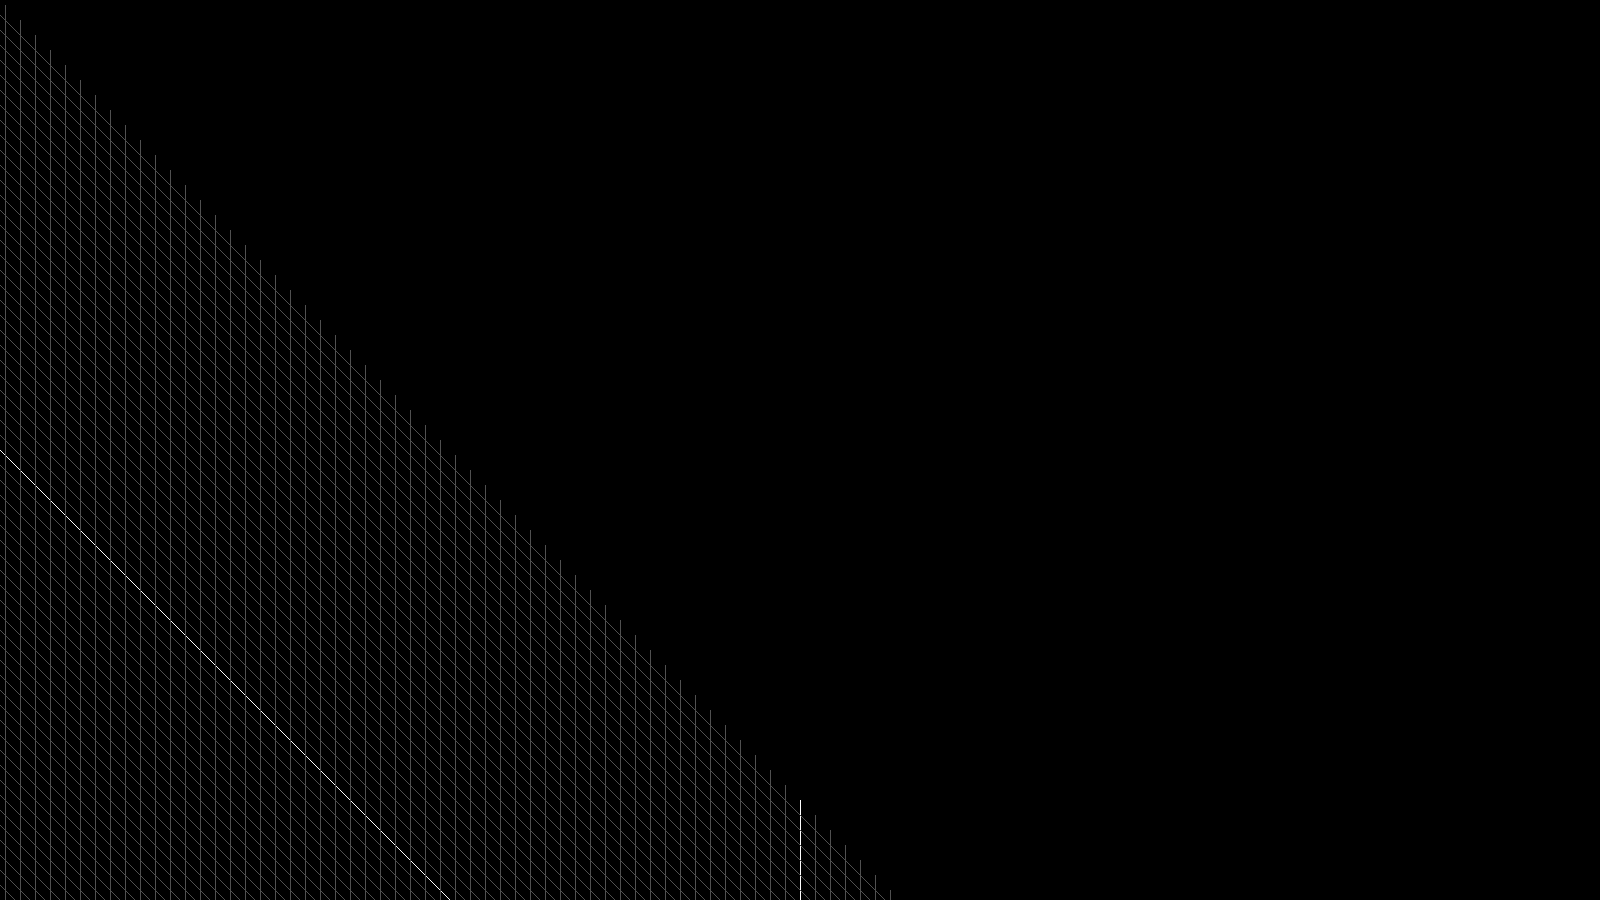
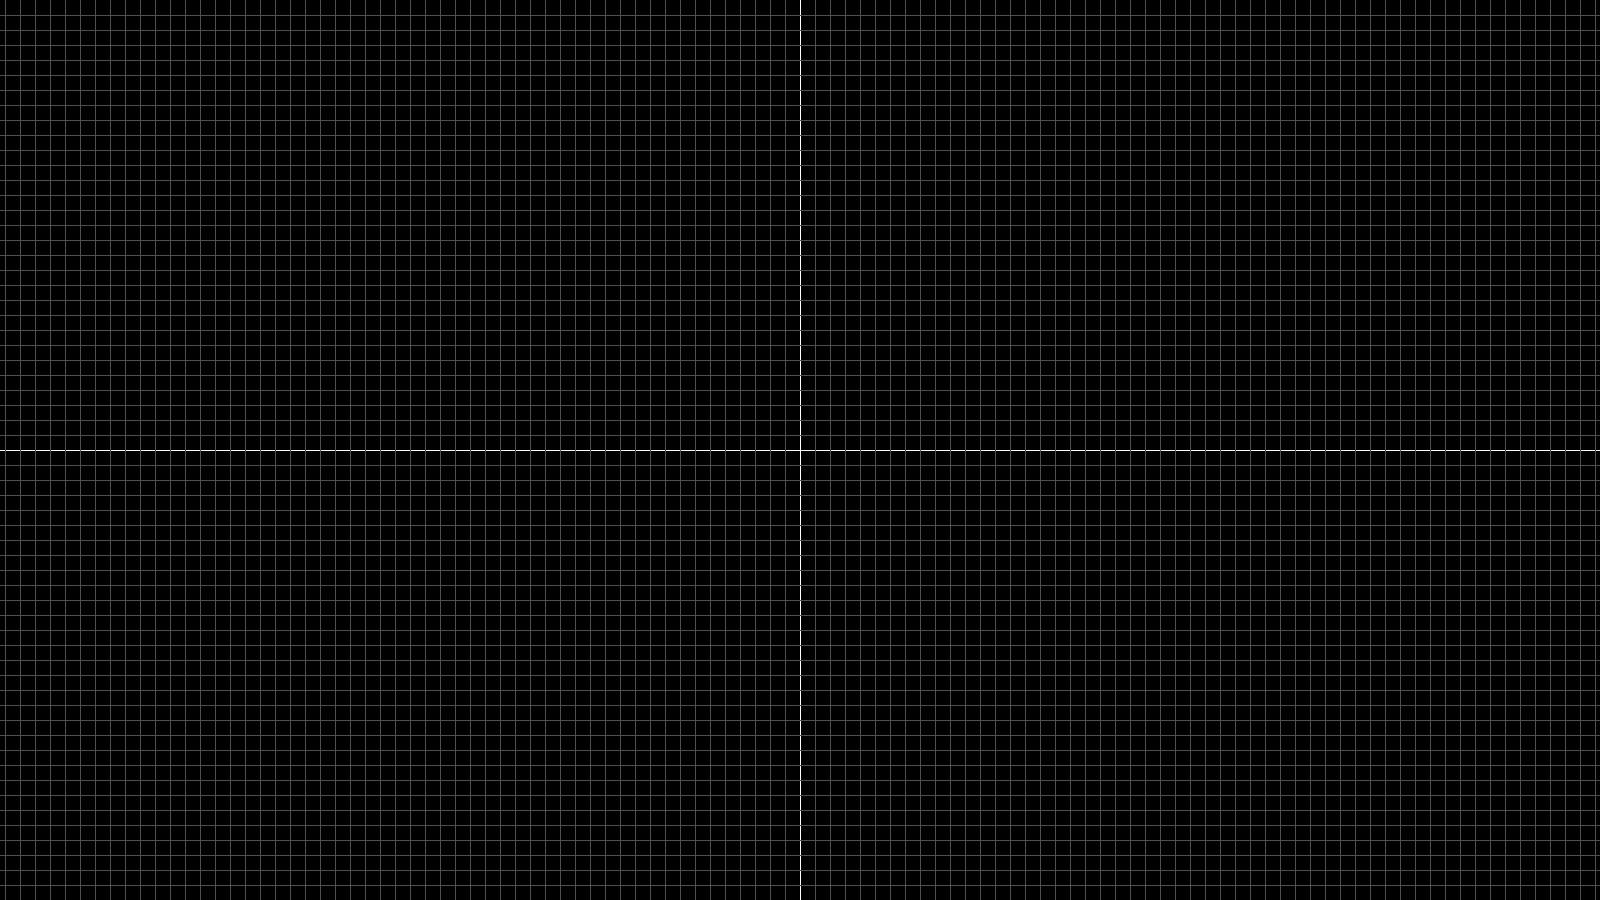
ummm, backup b4 remaking to add vector2,vector3(instead of just vector) and matricies

Changed region(s): [[0.0, 0.0, 1.0, 0.9956]]

diff --git a/vector_visualizer.cpp b/vector_visualizer.cpp
@@ -3,7 +3,30 @@
 #include "vector.hpp"
 #include <cmath>
 #include <raylib.h>
+// umm, iirc i use pi somewhere, so i just assign it from globa.pi to pi so its
+// less code
 const double pi = global.pi;
+
+void draw_line_vec(vector start, vector end, Color clr) {
+  // this fuctiion draws a line from one point to another onto current renderer,
+  // (0, 0) = middle of screen, y+ = up, x+ = right
+  vector origin = global.origin;
+  // transforming by {1, 0}, {0, -1} just does vec.y=-vec.y
+  // add origin since raylib uwu
+  vector start_loc = start.transform_return({1, 0}, {0, -1}) + origin;
+  vector end_loc = end.transform_return({1, 0}, {0, -1}) + origin;
+  DrawLine(start_loc.x, start_loc.y, end_loc.x, end_loc.y, clr);
+}
+void img_draw_line_vec(Image *dst, vector start, vector end, Color clr) {
+  // this fuctiion draws a line from one point to another onto an img
+  // (0, 0) = middle of screen, y+ = up, x+ = right
+  vector origin = global.origin;
+  // transforming by {1, 0}, {0, -1} just does vec.y=-vec.y
+  // add origin since raylib uwu
+  vector start_loc = start.transform_return({1, 0}, {0, -1}) + origin;
+  vector end_loc = end.transform_return({1, 0}, {0, -1}) + origin;
+  ImageDrawLine(dst, start_loc.x, start_loc.y, end_loc.x, end_loc.y, clr);
+}
 void drawVector(const vector origin, vector vec, const Color clr) {
   vector vec_local = vec;
   // multiply by -1 since y+ is down
@@ -62,6 +85,82 @@ void saveImage(Image img, std::string name) {
   ExportImage(img, name.c_str());
   UnloadImage(img);
 }
+void drawGrid(int spacing, vector ihat_prime, vector jhat_prime) {
+
+  vector win = vecfToVec(global.win) / 2;
+  vector origin = global.origin;
+  double done = 0;
+  vector toDrawStart;
+  vector toDrawEnd;
+
+  // transform each corner (non transformed) by inverse matrix of ihat_prime and
+  // det(A) = ad-bc
+  double determinant =
+      ihat_prime.x * jhat_prime.y - ihat_prime.y * jhat_prime.x;
+  // 1/(ad-bc) *
+  // vector inverse_ihat_prime = 1 / ()
+
+  vector corner_grid_top_left = vector(-win.x / 2, -win.y / 2);
+  vector corner_grid_top_right = vector(win.x / 2, -win.y / 2);
+
+  vector corner_grid_bottom_left = vector(-win.x / 2, win.y / 2);
+
+  vector corner_grid_bottom_right = vector(win.x / 2, win.y / 2);
+
+  vector corner_grid_top_left_trans =
+      corner_grid_top_left.transform_return(ihat_prime, jhat_prime);
+  vector corner_grid_top_right_trans =
+      corner_grid_top_right.transform_return(ihat_prime, jhat_prime);
+
+  vector corner_grid_bottom_left_trans =
+      corner_grid_bottom_left.transform_return(ihat_prime, jhat_prime);
+
+  vector corner_grid_bottom_right_trans =
+      corner_grid_bottom_right.transform_return(ihat_prime, jhat_prime);
+  // vector <= vector check if all values are <= (x,y and z)
+
+  draw_line_vec(corner_grid_top_left_trans, corner_grid_top_right_trans, WHITE);
+  draw_line_vec(corner_grid_top_right_trans, corner_grid_bottom_right_trans,
+                WHITE);
+  draw_line_vec(corner_grid_bottom_right_trans, corner_grid_bottom_left_trans,
+                WHITE);
+  draw_line_vec(corner_grid_bottom_left_trans, corner_grid_top_left_trans,
+                WHITE);
+
+  draw_line_vec(corner_grid_top_right_trans, corner_grid_bottom_left_trans,
+                RED);
+  draw_line_vec(corner_grid_top_left_trans, corner_grid_bottom_right_trans,
+                RED);
+  for (int i = 0; i < origin.x / spacing; i++) {
+    done = i / (origin.x / spacing);
+
+    toDrawStart =
+        corner_grid_bottom_left.transform_return(ihat_prime * done, jhat_prime);
+    toDrawEnd =
+        corner_grid_top_left.transform_return(ihat_prime * done, jhat_prime);
+
+    draw_line_vec(toDrawStart, toDrawEnd, GREEN);
+    toDrawStart = corner_grid_bottom_right.transform_return(ihat_prime * done,
+                                                            jhat_prime);
+    toDrawEnd =
+        corner_grid_top_right.transform_return(ihat_prime * done, jhat_prime);
+    draw_line_vec(toDrawStart, toDrawEnd, GREEN);
+  }
+  for (int i = 0; i < origin.y / spacing; i++) {
+    done = i / (origin.y / spacing);
+    toDrawStart =
+        corner_grid_top_left.transform_return(ihat_prime, jhat_prime * done);
+    toDrawEnd =
+        corner_grid_top_right.transform_return(ihat_prime, jhat_prime * done);
+
+    draw_line_vec(toDrawStart, toDrawEnd, GREEN);
+    toDrawStart =
+        corner_grid_bottom_left.transform_return(ihat_prime, jhat_prime * done);
+    toDrawEnd = corner_grid_bottom_right.transform_return(ihat_prime,
+                                                          jhat_prime * done);
+    draw_line_vec(toDrawStart, toDrawEnd, GREEN);
+  }
+}
 Image genGridImage(int spacing, vector ihat_prime, vector jhat_prime) {
 
   vector win = vecfToVec(global.win);
@@ -69,42 +168,74 @@ Image genGridImage(int spacing, vector ihat_prime, vector jhat_prime) {
   vector toDrawStart;
   vector toDrawEnd;
   Image img = GenImageColor(global.win.x, global.win.y, BLACK);
+  vector corner_top_left =
+      vector(0, 0).transform_return(ihat_prime, jhat_prime);
+  vector corner_top_right =
+      vector(win.x, 0).transform_return(ihat_prime, jhat_prime);
 
+  vector corner_bottom_left =
+      vector(0, win.y).transform_return(ihat_prime, jhat_prime);
+
+  vector corner_bottom_right =
+      vector(win.x, win.y).transform_return(ihat_prime, jhat_prime);
+  /*
+    img_draw_line_vec(&img, corner_top_left, corner_top_right, WHITE);
+    img_draw_line_vec(&img, corner_top_right, corner_bottom_right, WHITE);
+    img_draw_line_vec(&img, corner_bottom_right, corner_bottom_left, WHITE);
+    img_draw_line_vec(&img, corner_bottom_left, corner_top_left, WHITE);
+
+    img_draw_line_vec(&img, corner_top_right, corner_bottom_left, RED);
+    img_draw_line_vec(&img, corner_top_left, corner_bottom_right, RED);
+    return img;
+    */
   toDrawStart =
-      vector(origin.x, win.y).transform_return(ihat_prime, jhat_prime);
-  toDrawEnd = vector(origin.x, 0).transform_return(ihat_prime, jhat_prime);
+      vector(0, win.y - origin.y).transform_return(ihat_prime, jhat_prime) +
+      origin;
+  toDrawEnd =
+      vector(0, -origin.y).transform_return(ihat_prime, jhat_prime) + origin;
   ImageDrawLine(&img, toDrawStart.x, toDrawStart.y, toDrawEnd.x, toDrawEnd.y,
                 WHITE);
   toDrawStart =
-      vector(win.x, origin.y).transform_return(ihat_prime, jhat_prime);
-  toDrawEnd = vector(0, origin.y).transform_return(ihat_prime, jhat_prime);
+      vector(win.x - origin.x, 0).transform_return(ihat_prime, jhat_prime) +
+      origin;
+  toDrawEnd =
+      vector(-origin.x, 0).transform_return(ihat_prime, jhat_prime) + origin;
   ImageDrawLine(&img, toDrawStart.x, toDrawStart.y, toDrawEnd.x, toDrawEnd.y,
                 WHITE);
   for (int i = 1; i < origin.x / spacing; i++) {
-    toDrawStart = vector(origin.x + i * spacing, win.y)
-                      .transform_return(ihat_prime, jhat_prime);
-    toDrawEnd = vector(origin.x + i * spacing, 0)
-                    .transform_return(ihat_prime, jhat_prime);
+    toDrawStart = vector(i * spacing, win.y - origin.y)
+                      .transform_return(ihat_prime, jhat_prime) +
+                  origin;
+    toDrawEnd = vector(i * spacing, -origin.y)
+                    .transform_return(ihat_prime, jhat_prime) +
+                origin;
     ImageDrawLine(&img, toDrawStart.x, toDrawStart.y, toDrawEnd.x, toDrawEnd.y,
                   DARKGRAY);
-    toDrawStart = vector(origin.x - i * spacing, win.y)
-                      .transform_return(ihat_prime, jhat_prime);
-    toDrawEnd = vector(origin.x - i * spacing, 0)
-                    .transform_return(ihat_prime, jhat_prime);
+    toDrawStart = vector(-i * spacing, win.y - origin.y)
+                      .transform_return(ihat_prime, jhat_prime) +
+                  origin;
+    toDrawEnd = vector(-i * spacing, -origin.y)
+                    .transform_return(ihat_prime, jhat_prime) +
+                origin;
     ImageDrawLine(&img, toDrawStart.x, toDrawStart.y, toDrawEnd.x, toDrawEnd.y,
                   DARKGRAY);
   }
+
   for (int i = 1; i < origin.y / spacing; i++) {
-    toDrawStart = vector(win.x, origin.y + i * spacing)
-                      .transform_return(ihat_prime, jhat_prime);
-    toDrawEnd = vector(0, origin.y + i * spacing)
-                    .transform_return(ihat_prime, jhat_prime);
+    toDrawStart = vector(win.x - origin.x, i * spacing)
+                      .transform_return(ihat_prime, jhat_prime) +
+                  origin;
+    toDrawEnd = vector(-origin.x, i * spacing)
+                    .transform_return(ihat_prime, jhat_prime) +
+                origin;
     ImageDrawLine(&img, toDrawStart.x, toDrawStart.y, toDrawEnd.x, toDrawEnd.y,
                   DARKGRAY);
-    toDrawStart = vector(win.x, origin.y - i * spacing)
-                      .transform_return(ihat_prime, jhat_prime);
-    toDrawEnd = vector(0, origin.y - i * spacing)
-                    .transform_return(ihat_prime, jhat_prime);
+    toDrawStart = vector(win.x - origin.x, -i * spacing)
+                      .transform_return(ihat_prime, jhat_prime) +
+                  origin;
+    toDrawEnd = vector(-origin.x, -i * spacing)
+                    .transform_return(ihat_prime, jhat_prime) +
+                origin;
     ImageDrawLine(&img, toDrawStart.x, toDrawStart.y, toDrawEnd.x, toDrawEnd.y,
                   DARKGRAY);
   }

diff --git a/test.cpp b/test.cpp
@@ -9,25 +9,35 @@ const double pi = global.pi;
 vectorf win = global.win;
 vector origin = global.origin;
 int main() {
-  saveImage(genGridImage(15, {1, 1}, {0, 1}), "grid_test.png");
-  return 0;
+
+  saveImage(genGridImage(15, {1, 0}, {0, 1}), "grid_test.png");
+  // return 0;
   InitWindow(win.x, win.y, "");
   SetTargetFPS(60);
-  Image grid_img = LoadImage("grid.png");
+  Image grid_img = genGridImage(45, {1, 0}, {0, 1});
   Texture2D grid = LoadTextureFromImage(grid_img);
   UnloadImage(grid_img);
   vector vec;
+  double i = 0;
+  Color clrs[] = {WHITE, RED, BLUE, GREEN, VIOLET, LIGHTGRAY, YELLOW};
   while (!WindowShouldClose()) {
+    if (i < 2) {
+      i += 1.f / 600;
+    }
     Vector2 mousepos = GetMousePosition();
     vec = vector(mousepos.x, mousepos.y) - origin;
     vec.y *= -1;
     BeginDrawing();
 
-    DrawTexture(grid, 0, 0, WHITE);
     ClearBackground(BLACK);
-    drawVector(origin, vec, WHITE);
-    vec.transform({1, 1}, {0, 1});
-    drawVector(origin, vec, RED);
+    DrawTexture(grid, 0, 0, WHITE);
+    drawGrid(60, {1, i}, {i, 1});
+
+    drawVector(origin, vec, clrs[0]);
+    vec.transform({0, 1}, {1, 0});
+    drawVector(origin, vec, clrs[1]);
+    vec.transform({0, 1}, {1, 0});
+    drawVector(origin, vec * 0.95, clrs[2]);
     DrawFPS(0, 0);
     EndDrawing();
   }

diff --git a/vector.cpp b/vector.cpp
@@ -20,6 +20,18 @@ vector operator*(vector a, double b) {
 vector operator*(vector a, vector b) {
   return vector(a.x * b.x, a.y * b.y, a.z * b.y);
 }
+bool operator>(vector a, vector b) {
+  return a.x > b.x && a.y > b.y && a.z > b.z;
+}
+bool operator>=(vector a, vector b) {
+  return a.x >= b.x && a.y >= b.y && a.z >= b.z;
+}
+bool operator<(vector a, vector b) {
+  return a.x < b.x || a.y < b.y || a.z < b.z;
+}
+bool operator<=(vector a, vector b) {
+  return a.x <= b.x && a.y <= b.y && a.z <= b.z;
+}
 vectorf vecToVecf(vector a) { return vectorf(a.x, a.y, a.z); }
 vector vecfToVec(vectorf a) { return vector(a.x, a.y, a.z); }
 double vector::mag() { return sqrt(pow(x, 2) + pow(y, 2) + pow(z, 2)); }
@@ -35,10 +47,12 @@ void vector::transform(vector ihat_prime, vector jhat_prime) {
   y = ihat_prime.y * x + jhat_prime.y * y;
   x = setx;
 }
-
+vector vector::abs() { return vector(std::abs(x), std::abs(y), std::abs(z)); };
+vector vector::set_z_temp(double a) { return vector{x, y, a}; }
 void printvec(vector a) {
   std::cout << "vector: {" << a.x << ", " << a.y << ", " << a.z << "}\n";
 }
 void printvec(vector a, std::string name) {
   std::cout << name << ": {" << a.x << ", " << a.y << ", " << a.z << "}\n";
 }
+double sign(double a) { return a / std::abs(a); }

diff --git a/vector.hpp b/vector.hpp
@@ -15,6 +15,8 @@ public:
   vector opposite();
   void transform(vector ihat_prime, vector jhat_prime);
   vector transform_return(vector ihat_prime, vector jhat_prime);
+  vector abs();
+  vector set_z_temp(double a);
 };
 
 struct vectorf {
@@ -25,14 +27,33 @@ struct vectorf {
   vectorf(float x_in, float y_in, float z_in) : x(x_in), y(y_in), z(z_in) {}
   vectorf() : x(0), y(0), z(0) {}
 };
+class vector2 {
+public:
+  double x;
+  double y;
+  vector2(double x_in, double y_in) : x(x_in), y(y_in) {}
+  vector2() : x(0), y(0) {}
+  vector2 unit();
+  double mag();
+  vector2 opposite();
+  void transform(vector ihat_prime, vector jhat_prime);
+  vector2 transform_return(vector ihat_prime, vector jhat_prime);
+  vector2 abs();
+};
 
 vector operator-(vector a, vector b);
 vector operator+(vector a, vector b);
 vector operator/(vector a, double b);
 vector operator*(vector a, double b);
 vector operator*(vector a, vector b);
+bool operator>(vector a, vector b);
+bool operator>=(vector a, vector b);
+bool operator<(vector a, vector b);
+bool operator<=(vector a, vector b);
 vectorf vecToVecf(vector a);
 vector vecfToVec(vectorf a);
 void printvec(vector a);
 void printvec(vector a, std::string name);
+double sign(double a);
+
 #endif // VECTOR_H

diff --git a/vector_visualizer.hpp b/vector_visualizer.hpp
@@ -8,6 +8,8 @@
 
 Image genGridImage_normal(int spacing);
 Image genGridImage(int spacing, vector ihat_prime, vector jhat_prime);
+void draw_line_vec(vector start, vector end, Color clr);
+void drawGrid(int spacing, vector ihat_prime, vector jhat_prime);
 void drawGridImage(Image grid);
 void drawVector(const vector origin, vector vec, const Color clr);
 void saveImage(Image img, std::string name);

diff --git a/matrix.hpp b/matrix.hpp
@@ -1,0 +1,3 @@
+#include "vector.hpp"
+
+class matrix {}

diff --git a/matrix.cpp b/matrix.cpp
@@ -1,0 +1,2 @@
+#include "matrix.hpp"
+class matrix {}
